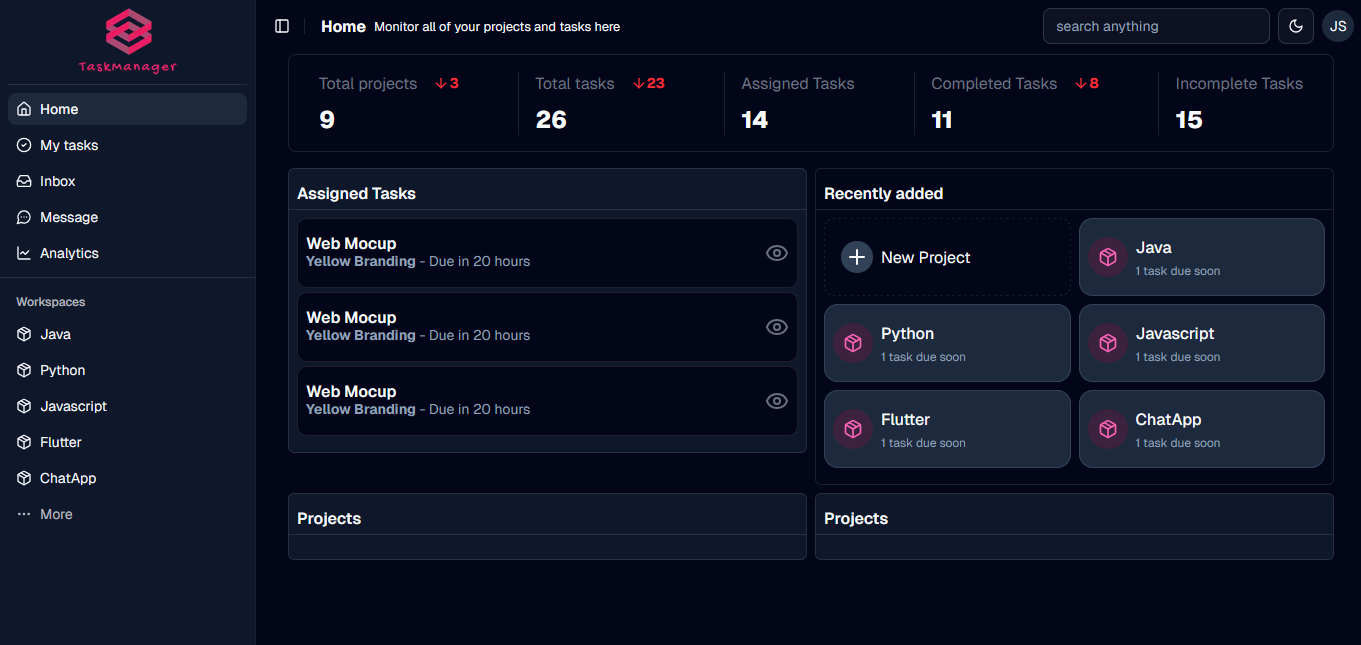
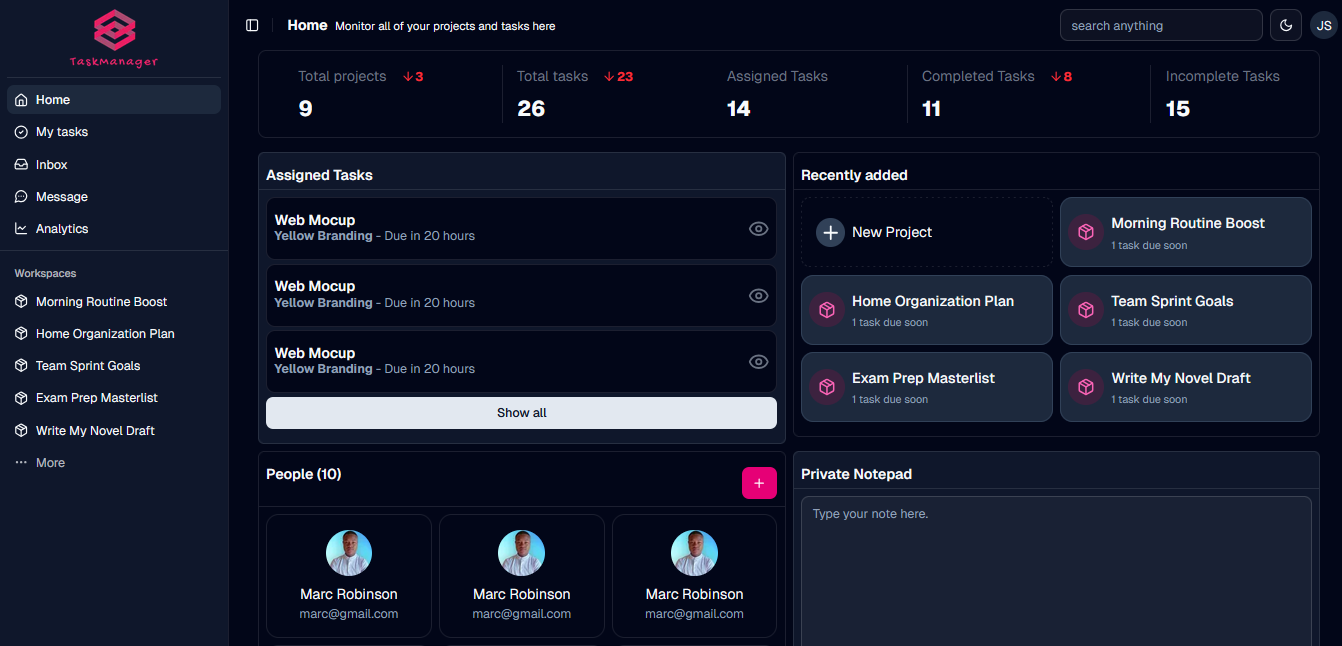
[FEAT] Implemented UI enhancements and content updates

diff --git a/src/app/page.tsx b/src/app/page.tsx
@@ -110,30 +110,29 @@ const FAQItem = ({ question, answer }: FaqProps) => {
 function ImprovedFAQSection() {
   const faqs = [
     {
-      question: "How long is the free trial?",
+      question: "Is TaskManager really free?",
       answer:
-        "Our free trial lasts for 14 days with no credit card required. You'll have full access to all features during this period.",
+        "Yes! TaskManager is 100% free with no hidden costs, trials, or premium plans. Enjoy all features without paying anything.",
     },
     {
-      question: "Can I change plans later?",
+      question: "Are there any limits on tasks or projects?",
       answer:
-        "Yes, you can upgrade, downgrade, or cancel your plan at any time through your account settings.",
+        "No, you can create unlimited tasks and projects. No restrictions—use it as much as you need!",
     },
     {
-      question: "Is there a limit to how many tasks I can create?",
+      question: "Do I need a credit card to sign up?",
       answer:
-        "No, all plans include unlimited tasks. The Free plan has a limit on projects and team members, but not on the number of tasks within those projects.",
+        "Nope! Just sign up with your email (or Google/GitHub), and you’re ready to go. No payment details required.",
     },
     {
-      question:
-        "Do you offer discounts for nonprofits or educational institutions?",
+      question: "How does TaskManager stay free?",
       answer:
-        "Yes, we offer special pricing for nonprofit organizations, educational institutions, and open-source projects. Contact our sales team to learn more.",
+        "We prioritize simplicity and user experience over monetization. If we ever introduce paid features, the core task management will always remain free.",
     },
     {
-      question: "What kind of support do you offer?",
+      question: "What kind of support is available?",
       answer:
-        "All plans include email support. Pro and Enterprise plans also include priority support with faster response times, and Enterprise plans come with a dedicated account manager.",
+        "We offer community support via forums and email. Since we’re free, responses may take longer than paid tools, but we’re here to help!",
     },
   ];
 
@@ -181,19 +180,16 @@ function ImprovedFAQSection() {
             Ready to get started?
           </h2>
           <p className="text-xl text-muted-foreground mb-10 max-w-2xl mx-auto">
-            Join thousands of teams who manage their work with TaskManager.
+            Join your teams who manage their work with TaskManager.
           </p>
           <div className="flex flex-col sm:flex-row gap-5 justify-center">
-            <button className="px-8 py-4 bg-primary text-primary-foreground rounded-lg font-medium hover:bg-primary/90 shadow-lg hover:shadow-xl transition-all duration-300">
+            <button className="cursor-pointer px-8 py-4 bg-primary text-primary-foreground rounded-lg font-medium hover:bg-primary/90 shadow-lg hover:shadow-xl transition-all duration-300">
               Start free trial
             </button>
-            <button className="px-8 py-4 border border-border bg-background rounded-lg font-medium hover:bg-accent/50 transition-all duration-300">
+            <button className="cursor-pointer px-8 py-4 border border-border bg-background rounded-lg font-medium hover:bg-accent/50 transition-all duration-300">
               Request demo
             </button>
           </div>
-          <p className="mt-6 text-sm text-muted-foreground">
-            No credit card required • 14-day free trial • Cancel anytime
-          </p>
         </div>
       </section>
     </>
@@ -494,7 +490,7 @@ export default function Home() {
                   className="items-center justify-center whitespace-nowrap rounded-md shadow-none text-sm font-medium ring-offset-background transition transform-gpu ease-in-out duration-300 focus-visible:outline-none disabled:pointer-events-none disabled:opacity-50 active:scale-95 select-none bg-primary text-primary-foreground hover:opacity-90 h-9 px-4 hidden sm:flex"
                   href="/signup"
                 >
-                  Start for free
+                  Explore for free
                 </Link>
               </div>
             </div>
@@ -545,7 +541,7 @@ export default function Home() {
                     href="/signup"
                     onClick={() => setIsMenuOpen(false)}
                   >
-                    Start for free
+                    Explore for free
                   </Link>
                 </div>
               </nav>
@@ -665,11 +661,11 @@ export default function Home() {
 
           <div className="grid grid-cols-1 md:grid-cols-2 gap-16 items-center">
             <div>
-              <div className="bg-accent/30 p-3 rounded-xl border border-input shadow-md">
+              <div className="p-3">
                 <img
-                  src="/api/placeholder/600/400"
-                  alt="TaskManager Setup"
-                  className="rounded-lg w-full"
+                  src="/illustration-copy.png"
+                  alt="Illustration"
+                  className="w-full"
                 />
               </div>
             </div>
@@ -751,7 +747,7 @@ export default function Home() {
 
           <div className="flex flex-col sm:flex-row gap-5 justify-center">
             <button
-              className="group px-8 py-4 bg-background text-foreground rounded-lg font-medium shadow-lg hover:shadow-xl transition-all duration-300 flex items-center justify-center gap-2"
+              className="cursor-pointer group px-8 py-4 bg-background text-foreground rounded-lg font-medium shadow-lg hover:shadow-xl transition-all duration-300 flex items-center justify-center gap-2"
               onMouseEnter={() => setIsHovered(true)}
               onMouseLeave={() => setIsHovered(false)}
             >
@@ -764,7 +760,7 @@ export default function Home() {
               />
             </button>
 
-            <button className="px-8 py-4 border border-primary-foreground/30 bg-primary-foreground/10 text-primary-foreground rounded-lg font-medium hover:bg-primary-foreground/20 transition-all duration-300 flex items-center justify-center gap-2">
+            <button className="cursor-pointer px-8 py-4 border border-primary-foreground/30 bg-primary-foreground/10 text-primary-foreground rounded-lg font-medium hover:bg-primary-foreground/20 transition-all duration-300 flex items-center justify-center gap-2">
               <Calendar size={18} />
               Schedule a demo
             </button>
@@ -867,22 +863,10 @@ export default function Home() {
                 Solutions
               </a>
               <a
-                href="#pricing"
+                href="#solutions"
                 className="text-gray-500  text-sm font-medium transition-colors hover:text-foreground"
               >
-                Pricing
-              </a>
-              <a
-                href="#testimonials"
-                className="text-gray-500  text-sm font-medium transition-colors hover:text-foreground"
-              >
-                Testimonials
-              </a>
-              <a
-                href="#"
-                className="text-gray-500 text-sm font-medium transition-colors hover:text-foreground"
-              >
-                Blog
+                FAQ
               </a>
               <a
                 href="#"

diff --git a/src/app/dashboard/page.tsx b/src/app/dashboard/page.tsx
@@ -16,7 +16,7 @@ import {
   SidebarProvider,
   SidebarTrigger,
 } from "@/components/ui/sidebar";
-import { Eye, PackageIcon, Plus } from "lucide-react";
+import { Eye, PackageIcon, Plus, PlusIcon } from "lucide-react";
 import ProtectedRoute from "@/components/ProtectedRoute";
 import { useTasks } from "@/contexts/TaskContext";
 import Loading from "@/components/Loading";
@@ -35,13 +35,10 @@ import { Input } from "@/components/ui/input";
 import { createProject } from "@/lib/api";
 import { useProjects } from "@/contexts/ProjectContext";
 import Link from "next/link";
-import {
-  getMonth,
-  getYear,
-  isThisMonth,
-  parseISO,
-} from "date-fns";
+import { getMonth, getYear, isThisMonth, parseISO } from "date-fns";
 import SummaryCard from "@/components/SummaryCard";
+import Image from "next/image";
+import { Textarea } from "@/components/ui/textarea";
 
 function isLastMonth(date: Date): boolean {
   const now = new Date();
@@ -98,7 +95,6 @@ export default function Page() {
   ).length;
 
   console.log(completedCurrent);
-  
 
   return (
     <ProtectedRoute>
@@ -123,7 +119,7 @@ export default function Page() {
           {TaskLoading || ProjectLoading ? (
             <Loading></Loading>
           ) : (
-            <div className="px-8">
+            <div className="px-8 mb-2">
               <div className="flex flex-row justify-around border rounded-md">
                 <div className="py-4 flex justify-between">
                   <div>
@@ -221,6 +217,7 @@ export default function Page() {
                           </Card>
                         );
                       })}
+                      <Button className="w-full">Show all</Button>
                     </CardContent>
                   </Card>
                 </div>
@@ -297,23 +294,58 @@ export default function Page() {
                   </Card>
                 </div>
                 <div>
-                  <Card className="shadow-none rounded-sm">
+                  <Card className="shadow-none rounded-sm dark:bg-background">
                     <CardHeader>
-                      <CardTitle>Projects</CardTitle>
-                      <CardDescription></CardDescription>
+                      <CardTitle className="flex justify-between">
+                        <span>People (10)</span>
+                        <span>
+                          <Button className="cursor-pointer bg-pink-600 hover:bg-pink-800">
+                            <PlusIcon className="dark:text-white"></PlusIcon>
+                          </Button>
+                        </span>
+                      </CardTitle>
                     </CardHeader>
                     <Separator></Separator>
-                    <CardContent></CardContent>
+                    <CardContent className="grid grid-cols-3 gap-2 items-center">
+                      {[1, 2, 3, 4, 5, 6].map((_, index) => {
+                        return (
+                          <Card
+                            className="text-center dark:bg-background"
+                            key={index}
+                          >
+                            <div className="flex justify-center">
+                              <Image
+                                width={52}
+                                height={52}
+                                src="/avatar.png"
+                                alt="avatar"
+                                className="rounded-full"
+                              ></Image>
+                            </div>
+                            <div>
+                              <h1>Marc Robinson</h1>
+                              <CardDescription>marc@gmail.com</CardDescription>
+                            </div>
+                          </Card>
+                        );
+                      })}
+                    </CardContent>
                   </Card>
                 </div>
                 <div>
                   <Card className="shadow-none rounded-sm">
                     <CardHeader>
-                      <CardTitle>Projects</CardTitle>
-                      <CardDescription></CardDescription>
+                      <CardTitle>Private Notepad</CardTitle>
                     </CardHeader>
                     <Separator></Separator>
-                    <CardContent></CardContent>
+                    <CardContent>
+                      <Textarea
+                        placeholder="Type your note here."
+                        id="note"
+                        name="note"
+                        className="h-52"
+                      />
+                    </CardContent>
                   </Card>
                 </div>
               </div>

diff --git a/src/app/projects/[id]/page.tsx b/src/app/projects/[id]/page.tsx
@@ -236,7 +236,7 @@ export default function Project() {
                       <DialogTrigger asChild>
                         <Button
                           size="sm"
-                          className="bg-blue-500 text-white cursor-pointer hover:bg-blue-800"
+                          className="bg-pink-600 text-white cursor-pointer hover:bg-pink-700"
                         >
                           <Plus></Plus> New
                         </Button>

diff --git a/src/app/tasks/page.tsx b/src/app/tasks/page.tsx
@@ -145,7 +145,7 @@ export default function Tasks() {
                       <DialogTrigger asChild>
                         <Button
                           size="sm"
-                          className="bg-blue-500 text-white cursor-pointer hover:bg-blue-800"
+                          className="bg-pink-600 text-white cursor-pointer hover:bg-pink-700"
                         >
                           <Plus></Plus> New
                         </Button>
